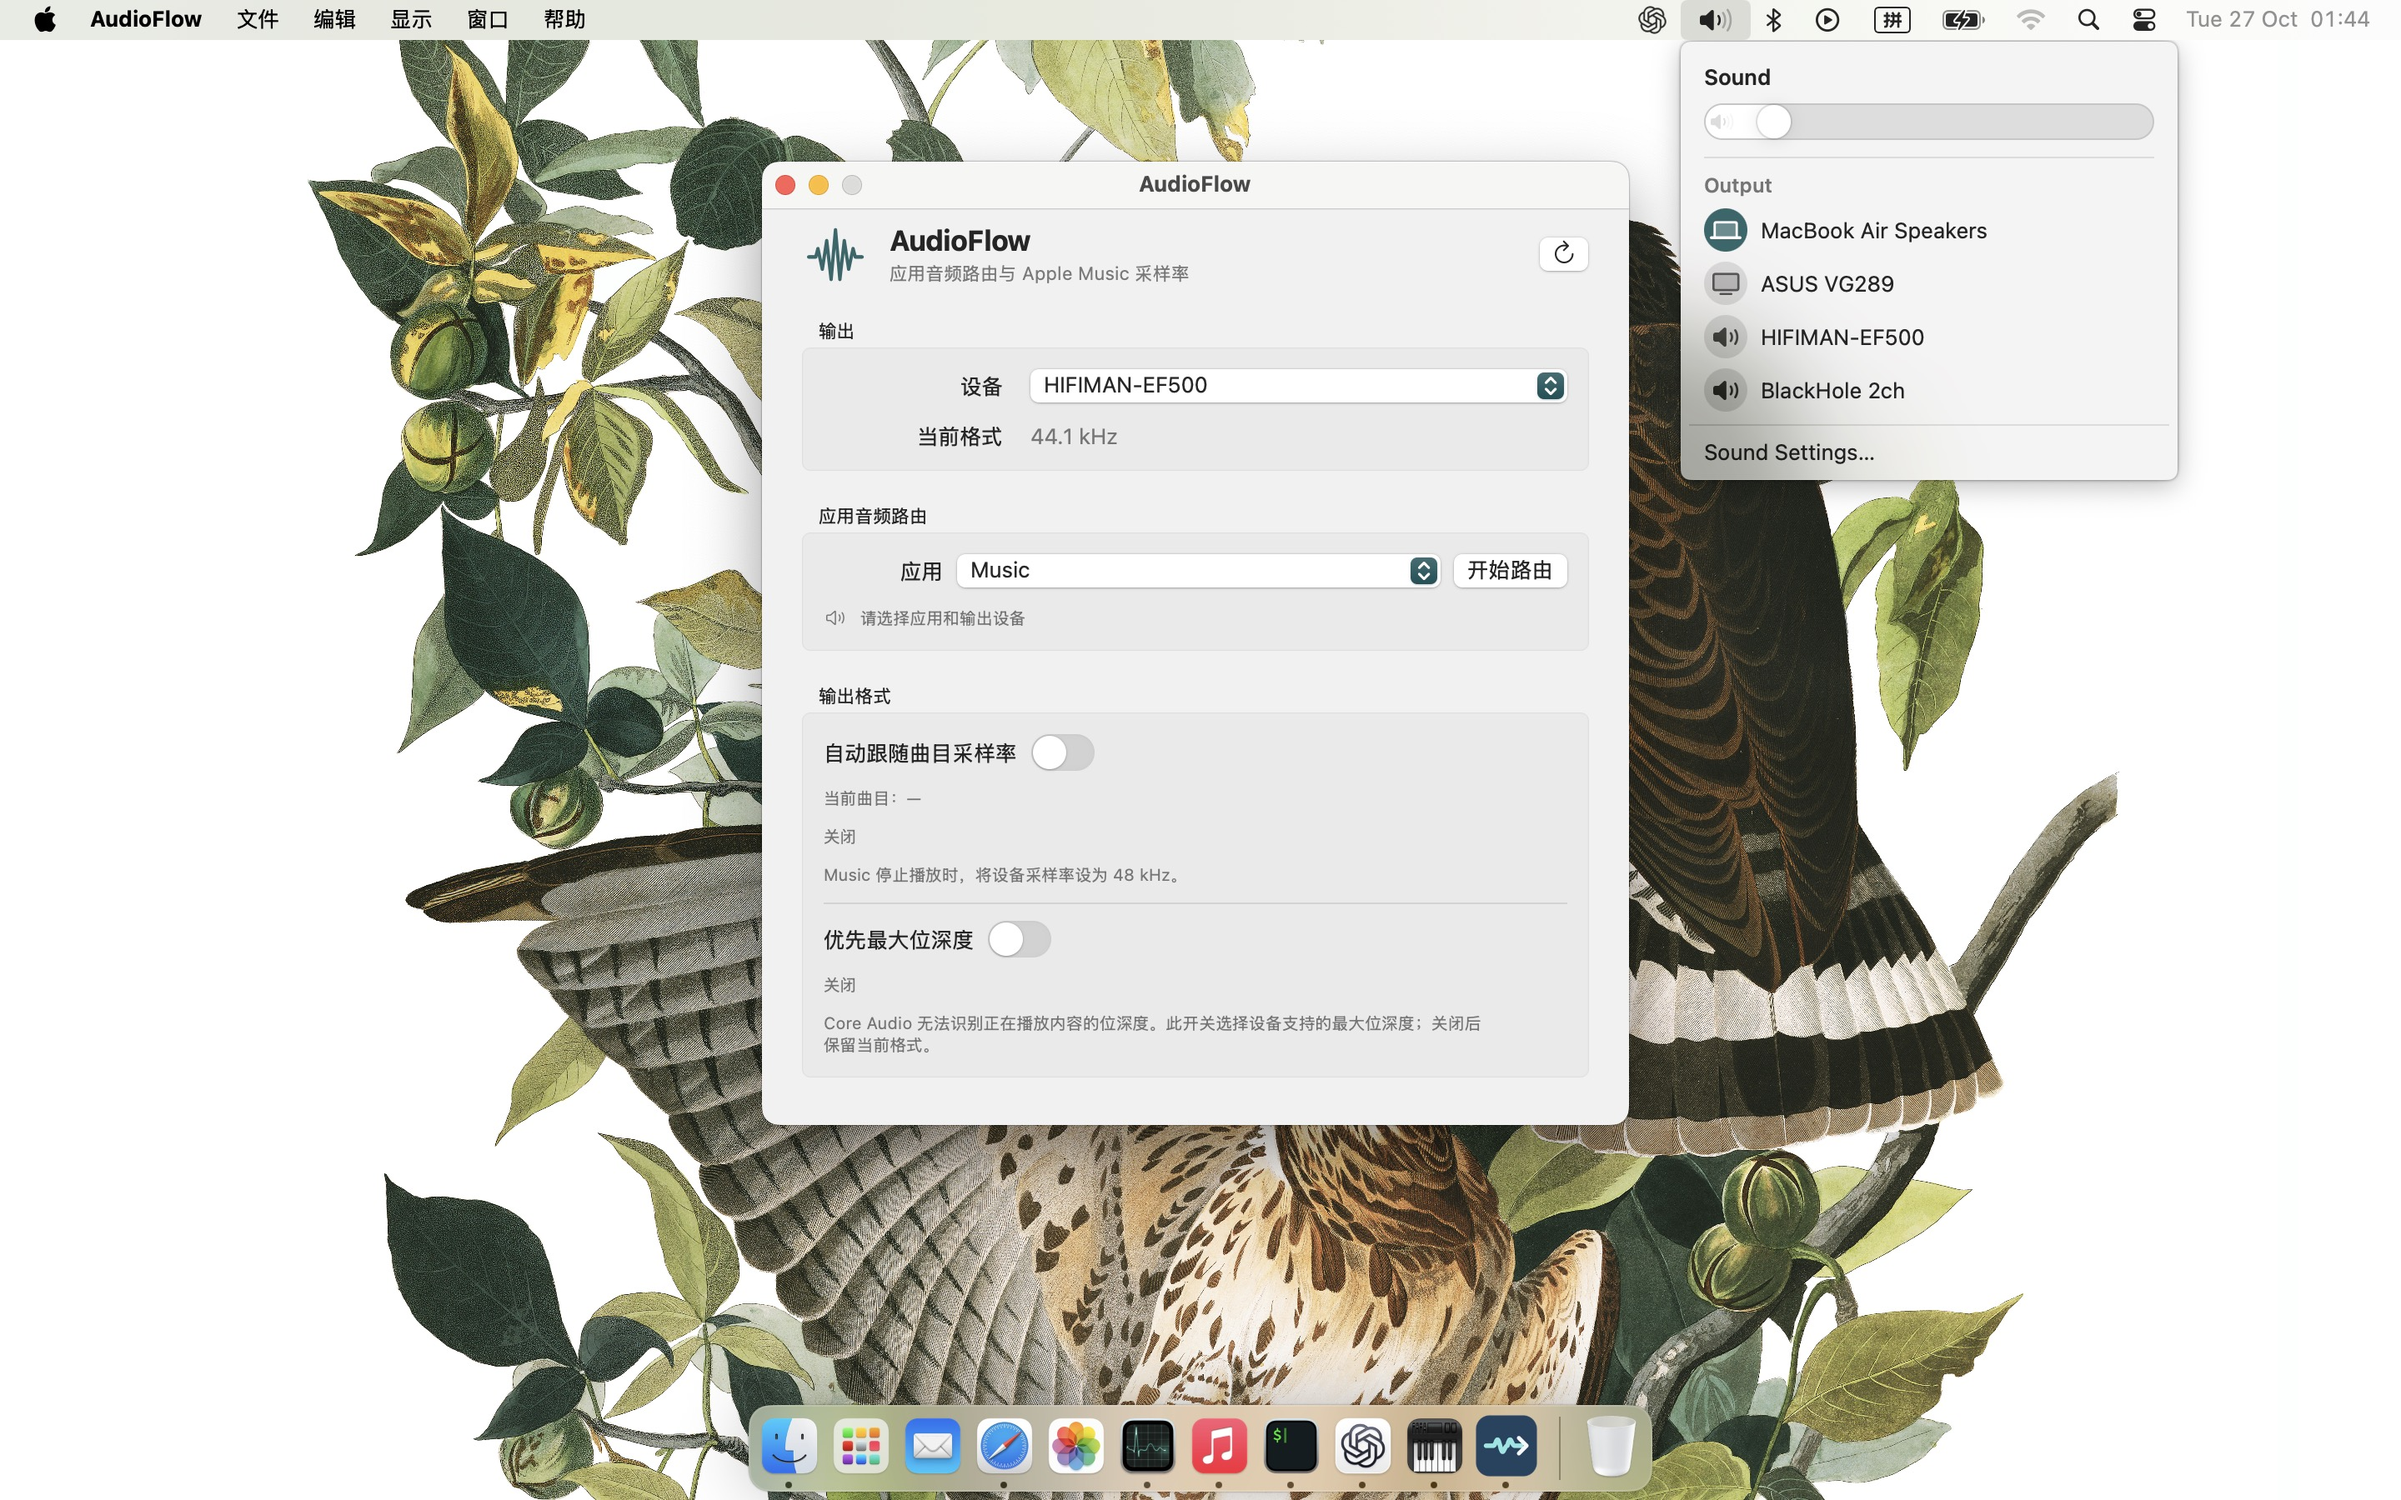
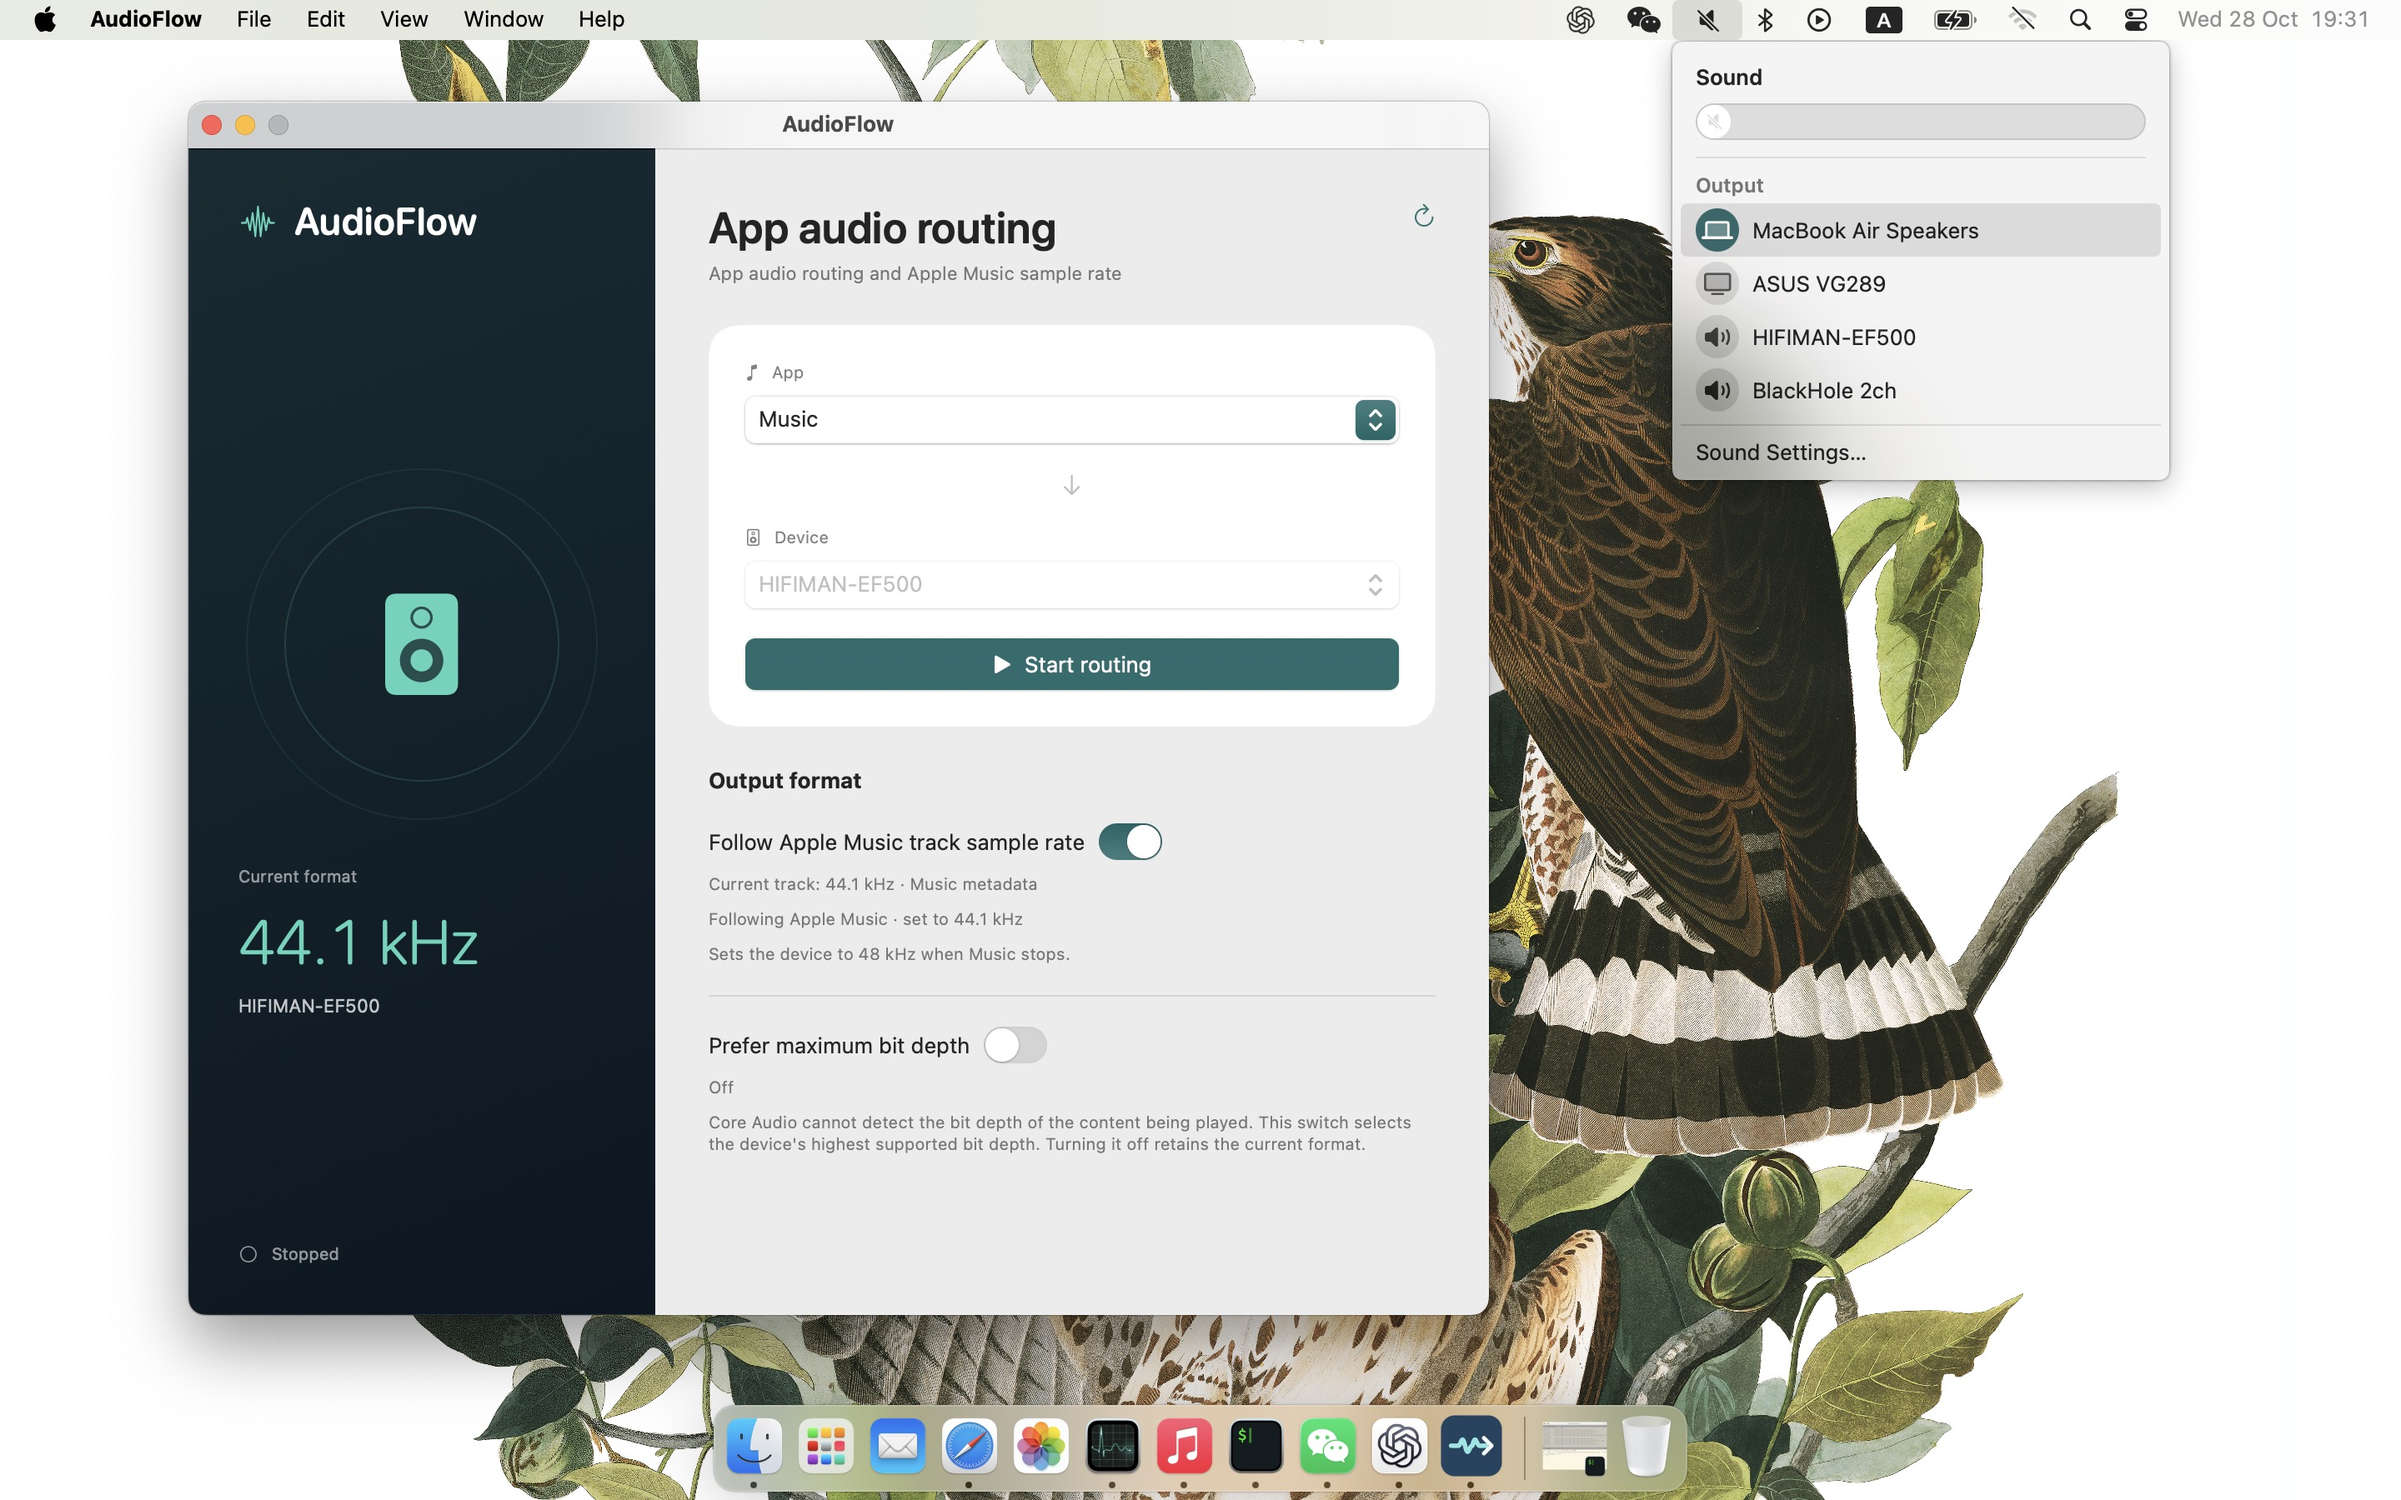
Redesign the app with a two-column audio control interface

diff --git a/App.swift b/App.swift
@@ -534,82 +534,116 @@ private func loggedSampleRate(_ line: String) -> Double? {
     }
 }
 
+private struct AudioCardStyle: GroupBoxStyle {
+    func makeBody(configuration: Configuration) -> some View {
+        VStack(alignment: .leading, spacing: 16) {
+            configuration.label
+                .font(.system(.subheadline, design: .default).weight(.semibold))
+                .foregroundStyle(.secondary)
+            configuration.content
+        }
+        .padding(20)
+        .frame(maxWidth: .infinity, alignment: .leading)
+        .background(Color(nsColor: .controlBackgroundColor), in: RoundedRectangle(cornerRadius: 16))
+        .overlay(RoundedRectangle(cornerRadius: 16).strokeBorder(.primary.opacity(0.055)))
+    }
+}
+
 private struct ContentView: View {
     @StateObject private var model = AudioModel()
 
+    private let accent = Color(red: 0.32, green: 0.83, blue: 0.73)
+
     var body: some View {
-        VStack(alignment: .leading, spacing: 20) {
-            HStack(spacing: 12) {
-                Image(systemName: "waveform.path")
-                    .font(.system(size: 28, weight: .medium))
-                    .foregroundStyle(.tint)
-                VStack(alignment: .leading, spacing: 2) {
-                    Text("AudioFlow").font(.title2.bold())
-                    Text(l("subtitle"))
-                        .font(.subheadline).foregroundStyle(.secondary)
+        HStack(spacing: 0) {
+            VStack(alignment: .leading, spacing: 28) {
+                HStack(spacing: 10) {
+                    Image(systemName: "waveform.path").font(.title2).foregroundStyle(accent)
+                    Text("AudioFlow").font(.system(size: 23, weight: .semibold, design: .rounded))
                 }
-                Spacer()
-                Button { model.refresh() } label: { Image(systemName: "arrow.clockwise") }
-                    .help(l("refresh_help"))
+                Spacer(minLength: 0)
+                ZStack {
+                    Circle().stroke(accent.opacity(0.08), lineWidth: 1).frame(width: 210, height: 210)
+                    Circle().stroke(accent.opacity(0.16), lineWidth: 1).frame(width: 164, height: 164)
+                    Image(systemName: model.routing ? "waveform" : "hifispeaker.fill")
+                        .font(.system(size: 64, weight: .ultraLight)).foregroundStyle(accent)
+                }.frame(maxWidth: .infinity)
+                VStack(alignment: .leading, spacing: 10) {
+                    Text(l("current_format")).font(.caption).foregroundStyle(.white.opacity(0.55))
+                    Text(model.deviceRate).font(.system(size: 37, weight: .light, design: .rounded))
+                        .monospacedDigit().foregroundStyle(accent)
+                    Text(model.device?.name ?? "—").font(.subheadline).foregroundStyle(.white.opacity(0.75))
+                        .lineLimit(2)
+                }
+                Spacer(minLength: 0)
+                Label(model.routeStatus, systemImage: model.routing ? "circle.fill" : "circle")
+                    .font(.caption).foregroundStyle(model.routing ? accent : .white.opacity(0.55))
+                    .fixedSize(horizontal: false, vertical: true)
             }
+            .padding(30).frame(width: 280)
+            .frame(maxHeight: .infinity)
+            .foregroundStyle(.white)
+            .background(LinearGradient(colors: [Color(red: 0.08, green: 0.17, blue: 0.20), Color(red: 0.04, green: 0.09, blue: 0.13)], startPoint: .topLeading, endPoint: .bottomTrailing))
 
-            GroupBox(l("output")) {
-                Grid(alignment: .leading, horizontalSpacing: 16, verticalSpacing: 12) {
-                    GridRow {
-                        Text(l("device")).frame(width: 108, alignment: .trailing)
-                        Picker(l("device"), selection: $model.selectedDevice) {
-                            ForEach(model.devices) { device in Text(device.name).tag(device.id) }
-                        }.labelsHidden().frame(maxWidth: .infinity)
-                            .disabled(model.routing || model.following || model.maximumBitDepth)
+            VStack(alignment: .leading, spacing: 24) {
+                HStack(alignment: .top) {
+                    VStack(alignment: .leading, spacing: 6) {
+                        Text(l("app_routing")).font(.system(size: 26, weight: .semibold))
+                        Text(l("subtitle")).font(.subheadline).foregroundStyle(.secondary)
                     }
-                    GridRow {
-                        Text(l("current_format")).frame(width: 108, alignment: .trailing)
-                        Text(model.deviceRate).foregroundStyle(.secondary)
-                    }
-                }.padding(8)
-            }
-
-            GroupBox(l("app_routing")) {
-                VStack(alignment: .leading, spacing: 12) {
-                    HStack {
-                        Text(l("app")).frame(width: 72, alignment: .trailing)
+                    Spacer()
+                    Button { model.refresh() } label: { Image(systemName: "arrow.clockwise") }
+                        .buttonStyle(.borderless).help(l("refresh_help"))
+                }
+                VStack(alignment: .leading, spacing: 18) {
+                    VStack(alignment: .leading, spacing: 8) {
+                        Label(l("app"), systemImage: "music.note").font(.caption).foregroundStyle(.secondary)
                         Picker(l("app"), selection: $model.selectedApp) {
                             ForEach(model.apps) { app in Text(app.name).tag(app.id) }
                         }.labelsHidden().disabled(model.routing)
-                        Button(model.routing ? l("stop_routing") : l("start_routing")) { model.toggleRoute() }
-                            .disabled(model.app == nil || model.device == nil || model.switchingRate)
                     }
-                    Label(model.routeStatus, systemImage: model.routing ? "waveform" : "speaker.wave.2")
-                        .font(.caption).foregroundStyle(.secondary)
-                }.padding(8)
-            }
+                    HStack { Spacer(); Image(systemName: "arrow.down").foregroundStyle(.tertiary); Spacer() }
+                    VStack(alignment: .leading, spacing: 8) {
+                        Label(l("device"), systemImage: "hifispeaker").font(.caption).foregroundStyle(.secondary)
+                        Picker(l("device"), selection: $model.selectedDevice) {
+                            ForEach(model.devices) { device in Text(device.name).tag(device.id) }
+                        }.labelsHidden().disabled(model.routing || model.following || model.maximumBitDepth)
+                    }
+                    Button { model.toggleRoute() } label: {
+                        HStack {
+                            Image(systemName: model.routing ? "stop.fill" : "play.fill")
+                            Text(model.routing ? l("stop_routing") : l("start_routing"))
+                        }.frame(maxWidth: .infinity).padding(.vertical, 5)
+                    }.buttonStyle(.borderedProminent)
+                        .disabled(model.app == nil || model.device == nil || model.switchingRate)
+                }.padding(22)
+                    .background(Color(nsColor: .controlBackgroundColor), in: RoundedRectangle(cornerRadius: 18))
 
-            GroupBox(l("output_format")) {
-                VStack(alignment: .leading, spacing: 10) {
-                    Toggle(l("follow_rate"), isOn: Binding(
-                        get: { model.following },
-                        set: { _ in model.toggleFollow() }
-                    )).disabled(model.device == nil || model.switchingRate)
-                    Text(l("current_track", model.trackRate)).font(.caption).foregroundStyle(.secondary)
-                    Text(model.rateStatus).font(.caption).foregroundStyle(.secondary)
-                    Text(l("sample_rate_note"))
-                        .font(.caption).foregroundStyle(.secondary)
-                        .fixedSize(horizontal: false, vertical: true)
+                VStack(alignment: .leading, spacing: 18) {
+                    Text(l("output_format")).font(.headline)
+                    VStack(alignment: .leading, spacing: 8) {
+                        Toggle(l("follow_rate"), isOn: Binding(get: { model.following }, set: { _ in model.toggleFollow() }))
+                            .disabled(model.device == nil || model.switchingRate)
+                        Text(l("current_track", model.trackRate)).font(.caption).foregroundStyle(.secondary)
+                        Text(model.rateStatus).font(.caption).foregroundStyle(.secondary)
+                        Text(l("sample_rate_note")).font(.caption).foregroundStyle(.secondary)
+                    }
                     Divider()
-                    Toggle(l("maximum_bit_depth"), isOn: Binding(
-                        get: { model.maximumBitDepth },
-                        set: { _ in model.toggleMaximumBitDepth() }
-                    )).disabled(model.device == nil || model.switchingRate)
-                    Text(model.bitDepthStatus).font(.caption).foregroundStyle(.secondary)
-                    Text(l("bit_depth_note"))
-                        .font(.caption).foregroundStyle(.secondary)
-                        .fixedSize(horizontal: false, vertical: true)
-                }.padding(8).toggleStyle(.switch)
-            }
-            Spacer(minLength: 0)
+                    VStack(alignment: .leading, spacing: 8) {
+                        Toggle(l("maximum_bit_depth"), isOn: Binding(get: { model.maximumBitDepth }, set: { _ in model.toggleMaximumBitDepth() }))
+                            .disabled(model.device == nil || model.switchingRate)
+                        Text(model.bitDepthStatus).font(.caption).foregroundStyle(.secondary)
+                        Text(l("bit_depth_note")).font(.caption).foregroundStyle(.secondary)
+                            .fixedSize(horizontal: false, vertical: true)
+                    }
+                }.toggleStyle(.switch)
+                Spacer(minLength: 0)
+            }.padding(32).frame(width: 500)
         }
-        .padding(24)
-        .frame(width: 520, height: 550)
+        .frame(width: 780, height: 700)
+        .background(Color(nsColor: .windowBackgroundColor))
+        .tint(Color(red: 0.16, green: 0.46, blue: 0.44))
+        .controlSize(.large)
         .onAppear { model.start() }
         .onDisappear { model.shutdown() }
         .alert("AudioFlow", isPresented: Binding(get: { model.lastError != nil }, set: { if !$0 { model.lastError = nil } })) {
